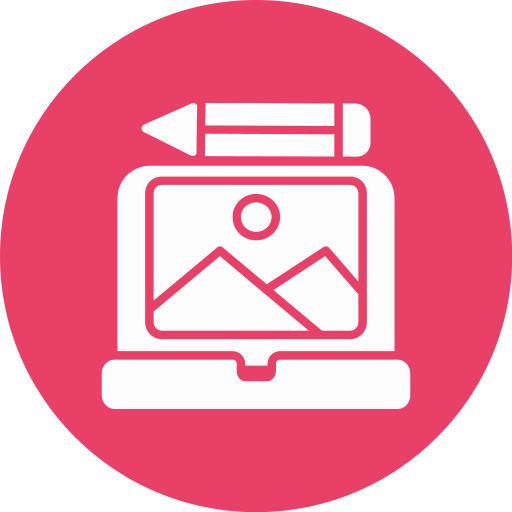
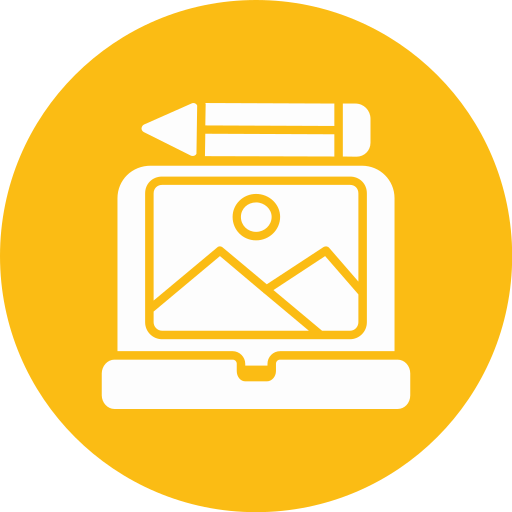
Se modifica y elimina default_image

diff --git a/screens/Eventos.tsx b/screens/Eventos.tsx
@@ -30,7 +30,7 @@ const Evento: React.FC<PropsEvento> = ({evento, navigation}: PropsEvento) => (
       source={
         evento.imagen
           ? {uri: evento.imagen}
-          : require('../assets/default_image_V2.png')
+          : require('../assets/default_image.png')
       }
       style={styles.eventoImagen}
     />

diff --git a/screens/NuevoEvento.tsx b/screens/NuevoEvento.tsx
@@ -23,7 +23,7 @@ interface Props {
   navigation: StackNavigationProp<any>;
 }
 
-const defaultImage = require('../assets/default_image_V2.png');
+const defaultImage = require('../assets/default_image.png');
 
 export default function NuevoEvento({navigation}: Props) {
   const [titulo, setTitulo] = useState('');
